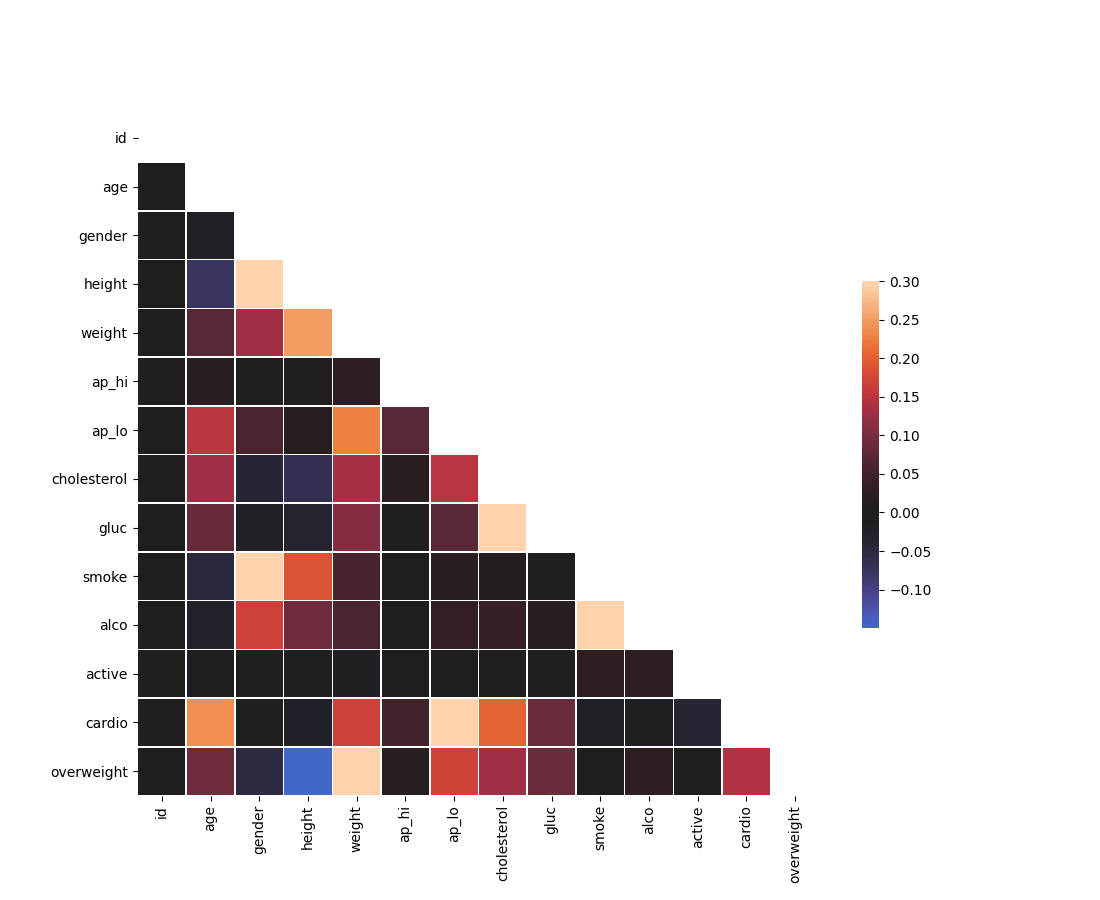
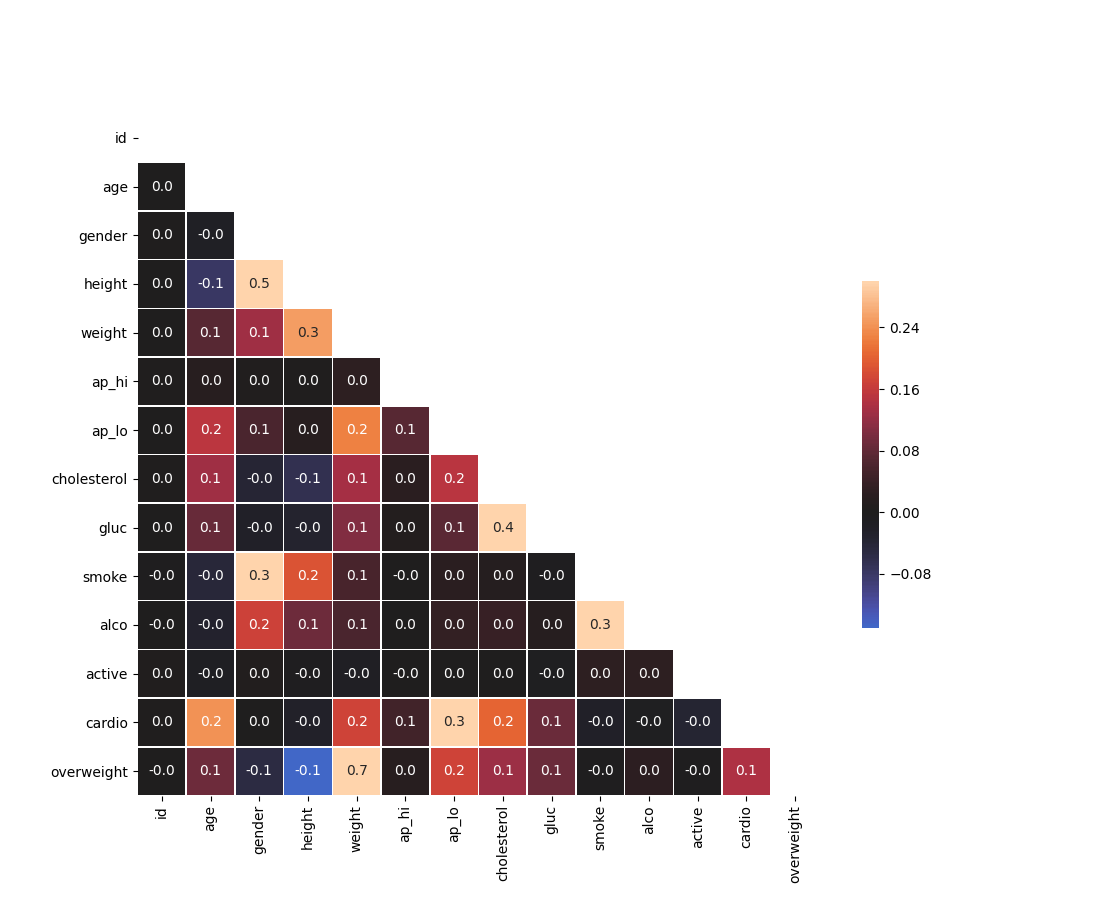
feat: add ticks to heatmap

diff --git a/medical_data_visualizer.py b/medical_data_visualizer.py
@@ -43,7 +43,7 @@ def draw_heat_map():
     fig, ax = plt.subplots(figsize=(11, 9))
 
     # Draw the heatmap with 'sns.heatmap()'
-    sns.heatmap(corr, mask=mask, vmax=.3, center=0, square=True, linewidths=.5, cbar_kws={"shrink": .5})
+    sns.heatmap(corr, mask=mask, vmin=-.15, vmax=.3, center=0, annot=True, fmt='.1f', square=True, linewidths=.5, cbar_kws={'shrink': .5, 'ticks': [-0.08, .0, .08, 0.16, 0.24]})
 
     # Do not modify the next two lines
     fig.savefig('heatmap.png')
